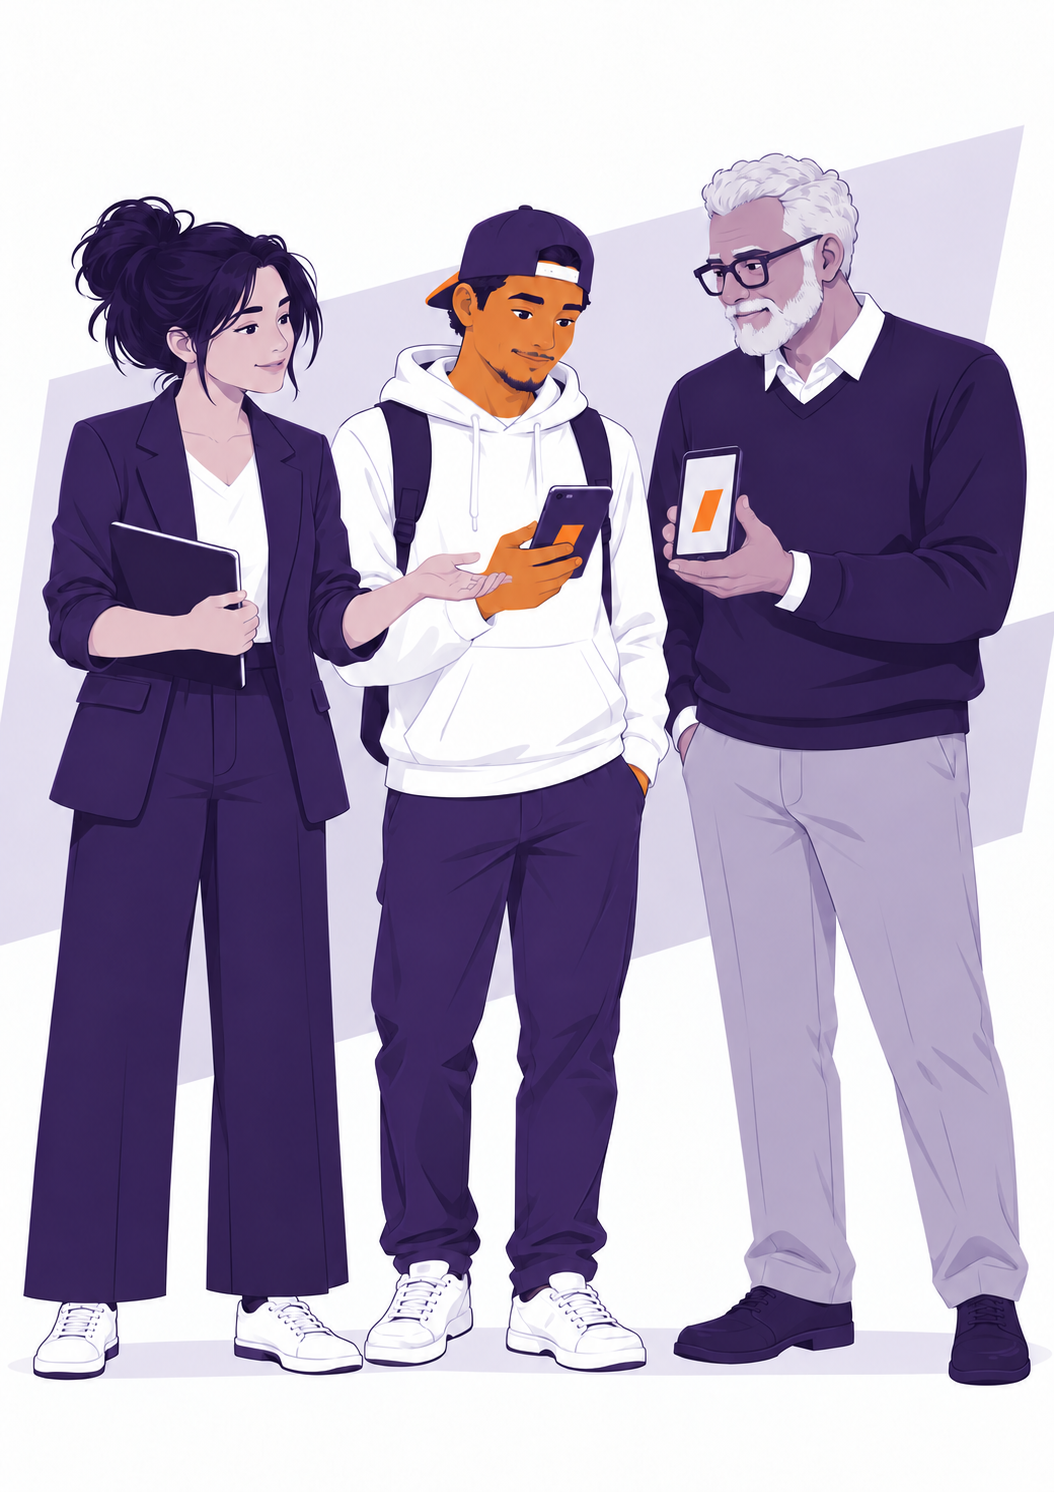
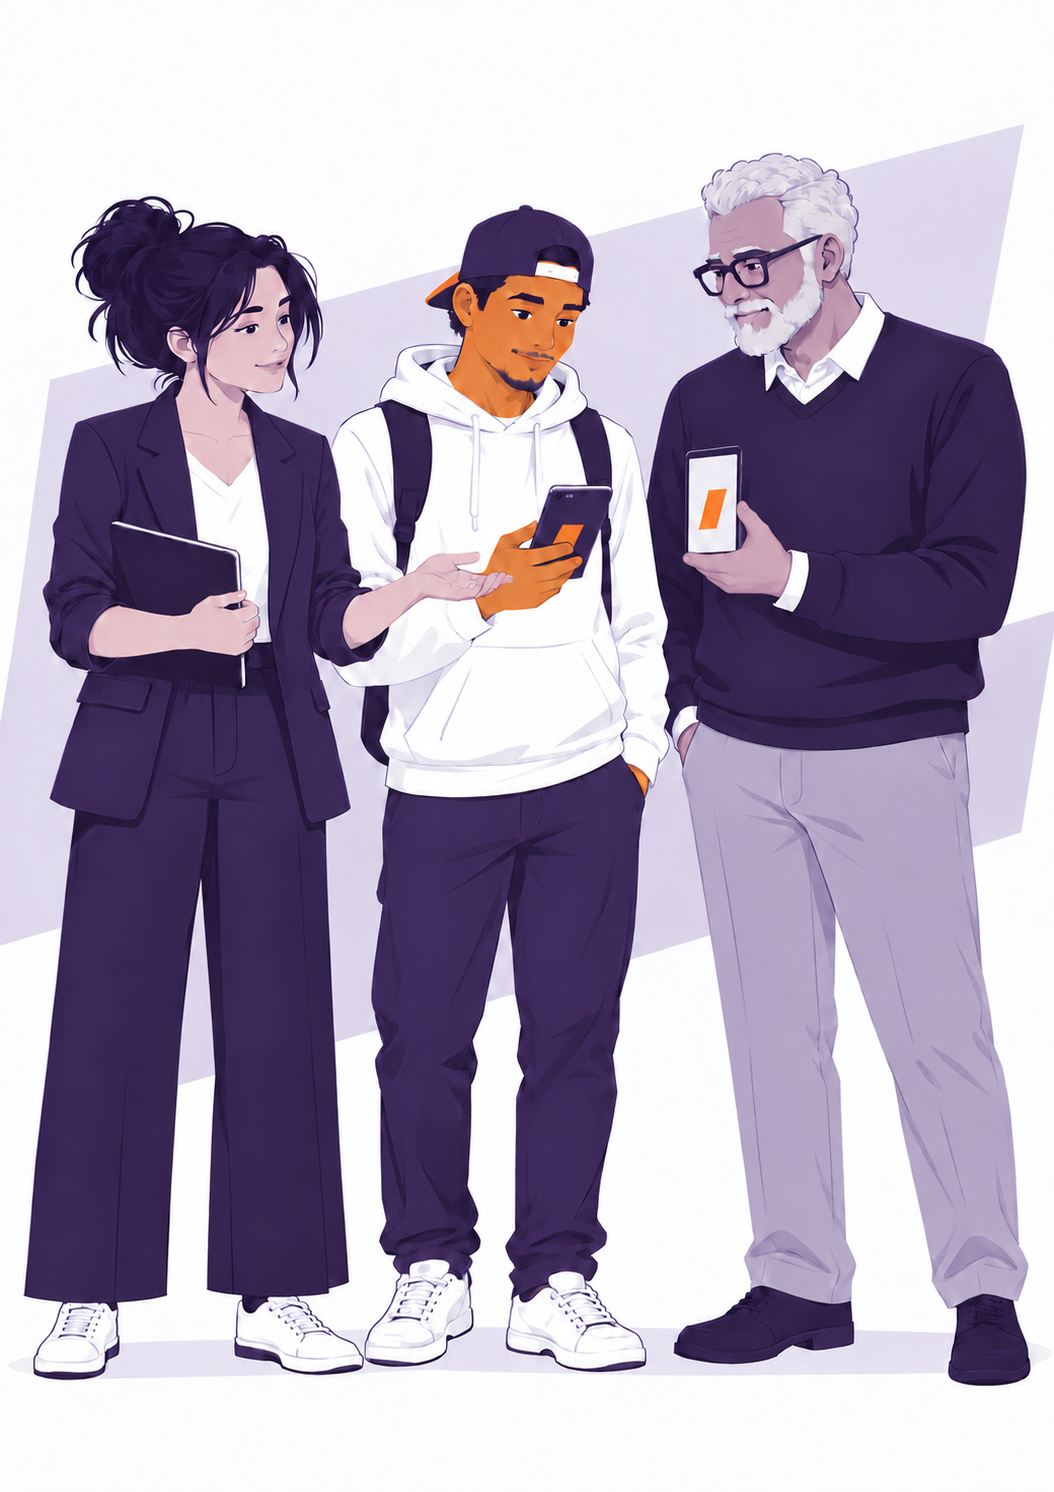
bd-illustrations-03

diff --git a/README.md b/README.md
@@ -91,6 +91,8 @@ When changing a definition or destination, check its uses in the curriculum and 
 
 Visuals support specific guide content. Preserve each `BD-V-NNN` identifier across its notes, brief, reference files, and production records.
 
+Use the asset type `EXTERNAL` for approved, externally supplied JPGs added directly through Sanity, including `BD-V-001` and `BD-V-076`. Generated production work is not applicable: no brief, AI reference, JSON record, or Claude package is required. `EXTERNAL` is a type, not a postponed or cancelled status.
+
 | Location | Use |
 |---|---|
 | [assets/assets-list.md](assets/assets-list.md) | Check recorded production status, missing inputs, and postponed assets |
